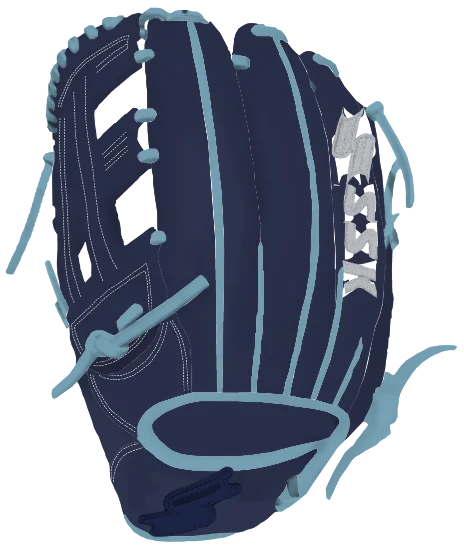
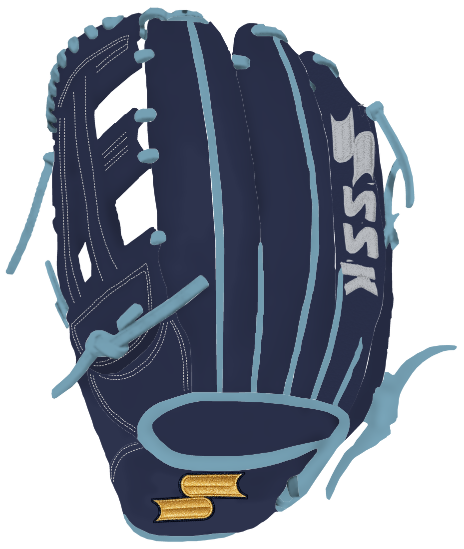
fix: refresh wrist badge starter previews and registration cache

diff --git a/glove_builder/customiser/app.js b/glove_builder/customiser/app.js
@@ -6,6 +6,7 @@ import './embed-context.js';
 import {PRICE_CENTS,MATERIAL_FIELDS,quoteDesign,crocAll,normaliseMaterials} from './commerce-pricing.js';
 import { loadGlove, GloveRenderer, assetURL, setImageSource, preloadImages } from './glove-engine.js';
 import { NativeFrames, PublicRenders } from './render-cache.js';
+import { starterRenderKey, STARTER_RENDER_REVISION } from './starter-cache.js';
 import { stageBackground } from './stage-background.js';
 import { encodeV4, decodeV4, isV4, encodeV3, decodeV3, isV3, decodeV2, decodeV1, isV2 } from './refcode.js';
 import { WEB_REFERENCES, WITHDRAWN_WEBS, HANDS, SIZES, POSITIONS, PADS, WEBS, EMB_FONTS, FLAGS, CIRCLE_COLORS,
@@ -164,7 +165,7 @@ const S = {
 };
 let DATA, R, ctx, undoStack = [], redoStack = [], suppress = false;
 const nativeFrames=new NativeFrames();
-const publicRenders=new PublicRenders((window.__SSK_RENDER_REVISION__ || '')+'|scott-back-palm-r03|thumb-r13',window.__SSK_PERF__?.nonce || '');
+const publicRenders=new PublicRenders((window.__SSK_RENDER_REVISION__ || '')+'|scott-back-palm-r03|thumb-r13|'+STARTER_RENDER_REVISION,window.__SSK_PERF__?.nonce || '');
 let defaultVisual=null;
 const visualKey=()=>JSON.stringify([S.colors,S.materials,S.hand,S.size,S.webType,S.pad,S.bullet,S.flag,S.flagPosition,
   S.thumbText,S.thumbNumber,S.pinkyText,S.circle,S.numberColor]);
@@ -836,13 +837,7 @@ function stepOpen(i) {
 /* Shipped starter pictures (render_starters.mjs). Used only while the key
    they were drawn from still matches: what a starter looks like depends on
    the back-view data, the colourways and the catalogue's starters. */
-const starterKey = () => {
-  const s = JSON.stringify([DATA.w, DATA.h, DATA.presets, DATA.materialFinish, DATA.materialResponse,
-    STARTERS.map(st => [st.id, st.colors, st.bullet, st.flag, st.flagPosition]), DATA.bullets.map(b => [b.name, b.active, b.asset])]);
-  let h = 2166136261;
-  for (let i = 0; i < s.length; i++) { h ^= s.charCodeAt(i); h = Math.imul(h, 16777619) >>> 0; }
-  return h.toString(16).padStart(8, '0') + '-' + s.length.toString(36);
-};
+const starterKey = () => starterRenderKey(DATA, STARTERS);
 let shippedStarters = null;   // { width, hands: { RHT: [...ids], LHT: [...] } } or false
 async function loadShippedStarters() {
   if (shippedStarters !== null) return shippedStarters;
@@ -915,7 +910,7 @@ function renderStart(b) {
       `<span class="kick">${groups[st.group]}</span><span class="nm">${st[S.lang]}</span>`));
     c.onclick = () => { applyStarter(st); paint(); };
     grid.appendChild(c);
-    const key = st.id + '|' + isLefty() + '|' + Object.keys(R._flags || {}).sort().join(',');
+    const key = starterKey() + '|' + st.id + '|' + isLefty() + '|' + Object.keys(R._flags || {}).sort().join(',');
     const show = async () => {
       if (!cv.isConnected) return;
       let image = starterImages.get(key);

diff --git a/glove_builder/customiser/starter-cache.js b/glove_builder/customiser/starter-cache.js
@@ -1,0 +1,19 @@
+// Bump when rendering changes without a catalogue/data change. Keep the key
+// independent of host URL rewriting and thumbnail paths in the static package.
+export const STARTER_RENDER_REVISION = 'wrist-placement-r16';
+
+export function starterRenderKey(data, starters) {
+  const s = JSON.stringify([
+    STARTER_RENDER_REVISION, data.w, data.h, data.presets,
+    data.materialFinish, data.materialResponse, data.bulletBox,
+    starters.map(st => [st.id, st.colors, st.bullet, st.flag, st.flagPosition]),
+    data.bullets.map(b => [b.name, b.asset, b.sourceBox,
+      b.mountSize, b.mountOffset, b.artAngleDegrees, b.tint, b.material])
+  ]);
+  let h = 2166136261;
+  for (let i = 0; i < s.length; i++) {
+    h ^= s.charCodeAt(i);
+    h = Math.imul(h, 16777619) >>> 0;
+  }
+  return h.toString(16).padStart(8, '0') + '-' + s.length.toString(36);
+}

diff --git a/scripts/build-base44.py b/scripts/build-base44.py
@@ -19,7 +19,7 @@ ROOT = pathlib.Path(__file__).resolve().parents[1]
 SOURCE = ROOT / '_site'
 OUTPUT = ROOT / '_base44'
 MANIFEST = ROOT / '_base44-manifest.json'
-ENTRY_FILES = ('index.html', 'app.js', 'glove-engine.js', 'glove-catalog.js', 'render-cache.js',
+ENTRY_FILES = ('index.html', 'app.js', 'glove-engine.js', 'glove-catalog.js', 'render-cache.js', 'starter-cache.js',
                'embed-context.js', 'shop-embed.js', 'refcode.js', 'stage-background.js', 'stage-interact.js', 'c3-thumb.js', 'picked.js', 'app.css', 'favicon.svg', 'ssk-logo.svg', '.nojekyll',
                'commerce-catalog.js','commerce-pricing.js','commerce-contract.js','commerce-config.js',
                'commerce-client.js','commerce-ui.js','commerce-display.js','commerce-summary.js','commerce.css',
